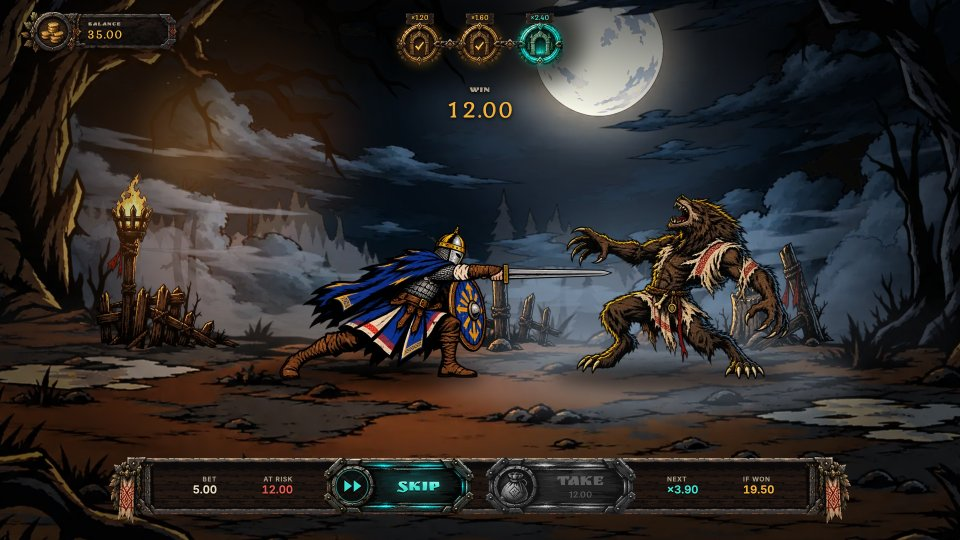
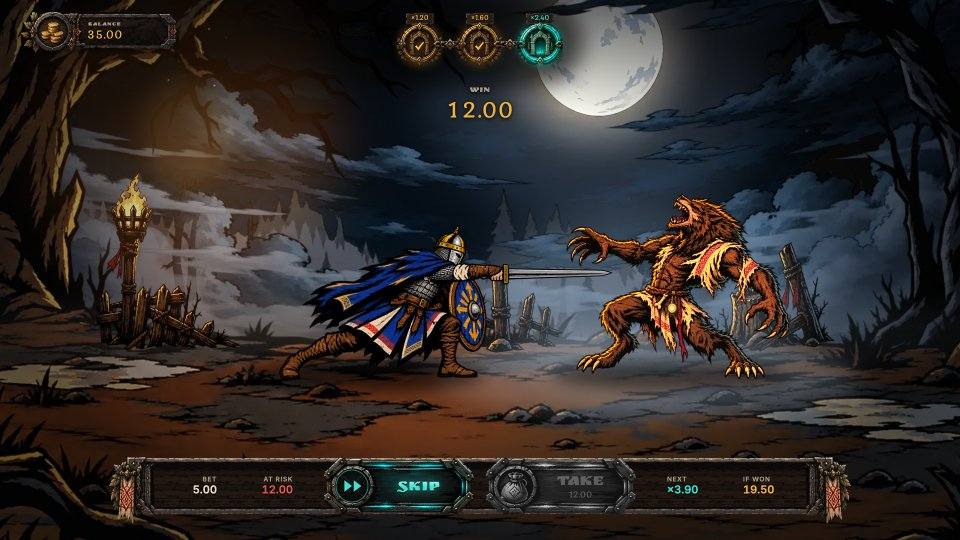
feat: light orb on enemies, flies to the win amount on victory
FX/Light orb from Figma 11.11 sits on every enemy pose; after a win over
a vovkulak or the boss it flies to the result banner and fades into it.
Open questions from the 11.11 sync logged.

diff --git a/docs/qa/report.html b/docs/qa/report.html
@@ -12,11 +12,11 @@
   tr.ok td:first-child { color: #3fe0d0; } tr.bad td:first-child { color: #f05a5a; font-weight: bold; }
 </style></head><body>
 <h1>Casino Game · visual QA</h1>
-<p>Generated 2026-11-11T17:16:24.788Z by <code>prototype/scripts/visual-qa.mjs</code> · app at 1920×1080 (shown at 960×540) · Figma file LXMHPQWUYxLjZiYVTfbx5X.
+<p>Generated 2026-11-11T17:26:30.599Z by <code>prototype/scripts/visual-qa.mjs</code> · app at 1920×1080 (shown at 960×540) · Figma file LXMHPQWUYxLjZiYVTfbx5X.
 Animated frames (attacks, boss entrance) will differ slightly: judge layout, UI and numbers. Character art comes from Lottie, so poses differ from the static Figma frames.</p>
 <h2>Money and runtime checks: 76/76 passed</h2>
 <table><tr class="ok"><td>PASS</td><td>Debug panel: effective RTP for all 7 gates (g1 = 78.0 %)</td><td>g1 78.0% g2 67.6% g3 65.9% g4 69.6% g5 78.9% g6 86.7% g7 93.1%</td></tr><tr class="ok"><td>PASS</td><td>L0: AT RISK (dock) = WIN (counter)</td><td>0.00 vs 0.00</td></tr><tr class="ok"><td>PASS</td><td>L0: AT RISK = game value</td><td>0.00 vs 0</td></tr><tr class="ok"><td>PASS</td><td>L0: TAKE disabled before the first win</td><td></td></tr><tr class="ok"><td>PASS</td><td>L0: FIGHT shows AT RISK</td><td>risk 0.00</td></tr><tr class="ok"><td>PASS</td><td>L0: AT RISK has 2 decimals</td><td>0.00</td></tr><tr class="ok"><td>PASS</td><td>L0: IF WON has 2 decimals</td><td>6.00</td></tr><tr class="ok"><td>PASS</td><td>L0: WIN has 2 decimals</td><td>0.00</td></tr><tr class="ok"><td>PASS</td><td>Balance after PLAY = start − bet</td><td>35.00</td></tr><tr class="ok"><td>PASS</td><td>L1: AT RISK (dock) = WIN (counter)</td><td>6.00 vs 6.00</td></tr><tr class="ok"><td>PASS</td><td>L1: AT RISK = game value</td><td>6.00 vs 6</td></tr><tr class="ok"><td>PASS</td><td>L1: TAKE amount = AT RISK</td><td>6.00 vs 6.00</td></tr><tr class="ok"><td>PASS</td><td>L1: FIGHT shows AT RISK</td><td>risk 6.00</td></tr><tr class="ok"><td>PASS</td><td>L1: AT RISK has 2 decimals</td><td>6.00</td></tr><tr class="ok"><td>PASS</td><td>L1: IF WON has 2 decimals</td><td>8.00</td></tr><tr class="ok"><td>PASS</td><td>L1: WIN has 2 decimals</td><td>6.00</td></tr><tr class="ok"><td>PASS</td><td>L1: path shows only the reached gate</td><td>1</td></tr><tr class="ok"><td>PASS</td><td>L1: plate is text only (no plate art)</td><td>×1.60</td></tr><tr class="ok"><td>PASS</td><td>L1: plate over the vovkulak at 1193,360 (Figma 756:6778)</td><td>1193,360</td></tr><tr class="ok"><td>PASS</td><td>L2: AT RISK (dock) = WIN (counter)</td><td>8.00 vs 8.00</td></tr><tr class="ok"><td>PASS</td><td>L2: AT RISK = game value</td><td>8.00 vs 8</td></tr><tr class="ok"><td>PASS</td><td>L2: TAKE amount = AT RISK</td><td>8.00 vs 8.00</td></tr><tr class="ok"><td>PASS</td><td>L2: FIGHT shows AT RISK</td><td>risk 8.00</td></tr><tr class="ok"><td>PASS</td><td>L2: AT RISK has 2 decimals</td><td>8.00</td></tr><tr class="ok"><td>PASS</td><td>L2: IF WON has 2 decimals</td><td>12.00</td></tr><tr class="ok"><td>PASS</td><td>L2: WIN has 2 decimals</td><td>8.00</td></tr><tr class="ok"><td>PASS</td><td>L3: AT RISK (dock) = WIN (counter)</td><td>12.00 vs 12.00</td></tr><tr class="ok"><td>PASS</td><td>L3: AT RISK = game value</td><td>12.00 vs 12</td></tr><tr class="ok"><td>PASS</td><td>L3: TAKE amount = AT RISK</td><td>12.00 vs 12.00</td></tr><tr class="ok"><td>PASS</td><td>L3: FIGHT shows AT RISK</td><td>risk 12.00</td></tr><tr class="ok"><td>PASS</td><td>L3: AT RISK has 2 decimals</td><td>12.00</td></tr><tr class="ok"><td>PASS</td><td>L3: IF WON has 2 decimals</td><td>19.50</td></tr><tr class="ok"><td>PASS</td><td>L3: WIN has 2 decimals</td><td>12.00</td></tr><tr class="ok"><td>PASS</td><td>L4: AT RISK (dock) = WIN (counter)</td><td>19.50 vs 19.50</td></tr><tr class="ok"><td>PASS</td><td>L4: AT RISK = game value</td><td>19.50 vs 19.5</td></tr><tr class="ok"><td>PASS</td><td>L4: TAKE amount = AT RISK</td><td>19.50 vs 19.50</td></tr><tr class="ok"><td>PASS</td><td>L4: FIGHT shows AT RISK</td><td>risk 19.50</td></tr><tr class="ok"><td>PASS</td><td>L4: AT RISK has 2 decimals</td><td>19.50</td></tr><tr class="ok"><td>PASS</td><td>L4: IF WON has 2 decimals</td><td>34.00</td></tr><tr class="ok"><td>PASS</td><td>L4: WIN has 2 decimals</td><td>19.50</td></tr><tr class="ok"><td>PASS</td><td>L5: AT RISK (dock) = WIN (counter)</td><td>34.00 vs 34.00</td></tr><tr class="ok"><td>PASS</td><td>L5: AT RISK = game value</td><td>34.00 vs 34</td></tr><tr class="ok"><td>PASS</td><td>L5: TAKE amount = AT RISK</td><td>34.00 vs 34.00</td></tr><tr class="ok"><td>PASS</td><td>L5: FIGHT shows AT RISK</td><td>risk 34.00</td></tr><tr class="ok"><td>PASS</td><td>L5: AT RISK has 2 decimals</td><td>34.00</td></tr><tr class="ok"><td>PASS</td><td>L5: IF WON has 2 decimals</td><td>57.50</td></tr><tr class="ok"><td>PASS</td><td>L5: WIN has 2 decimals</td><td>34.00</td></tr><tr class="ok"><td>PASS</td><td>L5: gate 6 enemy is the vovkulak boss, not final</td><td>vovkulakBoss final=false</td></tr><tr class="ok"><td>PASS</td><td>L5: dock still reads IF WON on gate 6</td><td>IF WON</td></tr><tr class="ok"><td>PASS</td><td>L5: plate over the boss at 1201,327 (Figma 756:6539)</td><td>1201,327</td></tr><tr class="ok"><td>PASS</td><td>Gate 6 boss intro banner: BOSS BATTLE · ×11.50, no MAX WIN</td><td>BOSS BATTLE·×11.50</td></tr><tr class="ok"><td>PASS</td><td>Gate 6: FIGHT uses Highlight (boss)</td><td></td></tr><tr class="ok"><td>PASS</td><td>Fight (win): 2–3 exchanges, final blow by the hero</td><td>2 exchanges, winner hero</td></tr><tr class="ok"><td>PASS</td><td>Fight (win): no sprite jumps — every move slides (≥150 ms), shadows on y750 ±4</td><td>5 moves, 0 jumps, y off 0.0 px</td></tr><tr class="ok"><td>PASS</td><td>Fight (lose): 2–3 exchanges, final blow by the enemy</td><td>2 exchanges, winner enemy</td></tr><tr class="ok"><td>PASS</td><td>Fight (lose): no sprite jumps — every move slides (≥150 ms), shadows on y750 ±4</td><td>5 moves, 0 jumps, y off 0.0 px</td></tr><tr class="ok"><td>PASS</td><td>Baba Yaga: cage light is on and follows her (same x as the enemy)</td><td>{"has":true,"follows":true,"src":"/fx/cage-core.svg"}</td></tr><tr class="ok"><td>PASS</td><td>DEFEAT by Baba Yaga: knight caged at home, she wins on her step 1180</td><td>{"hero":"caged","enemyX":"1180","red":true,"redSrc":"/fx/red-light-supporting.svg","cage":"/fx/cage-core.svg"}</td></tr><tr class="ok"><td>PASS</td><td>DEFEAT by Baba Yaga: gold cage light is the focus, red light only supports (847:6304)</td><td>{"hero":"caged","enemyX":"1180","red":true,"redSrc":"/fx/red-light-supporting.svg","cage":"/fx/cage-core.svg"}</td></tr><tr class="ok"><td>PASS</td><td>Victory banner = AT RISK growth (19.50 − 12.00)</td><td>+7.50</td></tr><tr class="ok"><td>PASS</td><td>Defeat popup = −bet</td><td></td></tr><tr class="ok"><td>PASS</td><td>Defeat: balance = before − bet</td><td>35.00</td></tr><tr class="ok"><td>PASS</td><td>Cashed out popup = TAKE amount = AT RISK</td><td>+12.00 / 12.00 / 12.00</td></tr><tr class="ok"><td>PASS</td><td>Cashed out: balance = before − bet + payout</td><td>47.00</td></tr><tr class="ok"><td>PASS</td><td>Baba Yaga intro banner shows FINAL BATTLE and the final multiplier</td><td>FINAL BATTLE·MAX WIN×19.00</td></tr><tr class="ok"><td>PASS</td><td>Baba Yaga: dock label reads IF WON (Figma 843:6410)</td><td>IF WON</td></tr><tr class="ok"><td>PASS</td><td>Baba Yaga: FIGHT reads risk = AT RISK</td><td>risk 57.50</td></tr><tr class="ok"><td>PASS</td><td>Baba Yaga: FIGHT uses Highlight</td><td></td></tr><tr class="ok"><td>PASS</td><td>Baba Yaga: plate shows only the final multiplier</td><td>×19.00</td></tr><tr class="ok"><td>PASS</td><td>Baba Yaga: plate over her head at 1247,276 (Figma 843:6410)</td><td>1247,276</td></tr><tr class="ok"><td>PASS</td><td>Baba Yaga: gate 7 enemy is final</td><td>babaYaga final=true</td></tr><tr class="ok"><td>PASS</td><td>MAX WIN popup = IF WON before the boss fight</td><td>+95.00 vs 95.00</td></tr><tr class="ok"><td>PASS</td><td>MAX WIN: balance unchanged until the popup shows</td><td>35</td></tr><tr class="ok"><td>PASS</td><td>MAX WIN: balance = before − bet + payout</td><td>130.00</td></tr><tr class="ok"><td>PASS</td><td>Lottie clip mount during a round (JS) < 100 ms each (roadmap long-task target)</td><td>no Lottie mounted during the round (characters are sprites)</td></tr><tr class="ok"><td>PASS</td><td>No page errors or console errors</td><td></td></tr></table>
-<p><code>info</code> Headless (software GL) long tasks during the perf round: 2, max 217 ms. Not a gate; see checklist for real-GPU numbers.</p>
+<p><code>info</code> Headless (software GL) long tasks during the perf round: 1, max 85 ms. Not a gate; see checklist for real-GPU numbers.</p>
 
     <section>
       <h2>SETUP (lobby) <code>885:10856</code></h2>

diff --git a/prototype/src/scene/Character.jsx b/prototype/src/scene/Character.jsx
@@ -47,6 +47,7 @@ export default function Character({ set, pose, x, move, flash, enter = false, qa
 
   const current = SPRITES[`${set}.${pose}`]
   const down = pose === 'dead'
+  const orb = FX.lightOrb.poses[set]?.[pose]
 
   return (
     <div
@@ -99,6 +100,18 @@ export default function Character({ set, pose, x, move, flash, enter = false, qa
             </div>
           )
         })}
+        {/* FX/Light orb 947:6377: the light amulet each enemy wears, on its pose anchor. */}
+        {orb && (
+          <img
+            src={FX.lightOrb.src}
+            alt=""
+            aria-hidden
+            data-qa="light-orb"
+            className="absolute block max-w-none"
+            style={{ left: orb[0] - FX.lightOrb.w / 2, top: SHADOW_Y + orb[1] - FX.lightOrb.h / 2, width: FX.lightOrb.w, height: FX.lightOrb.h }}
+            draggable={false}
+          />
+        )}
       </div>
     </div>
   )
@@ -179,5 +192,34 @@ export function DefeatRedLight({ x, set }) {
       style={{ left: x + red.x, top: SHADOW_Y + red.y, width: red.w, height: red.h, animation: 'fade-in 300ms ease-out both' }}
       draggable={false}
     />
+  )
+}
+
+// Victory over a vovkulak or the boss: the beaten enemy's light orb leaves its body
+// and flies to the win amount in the result banner (x960, y219), then fades into it.
+// The two axes ease differently, so the path curves; two faint copies trail it.
+export const ORB_TARGET = { x: 960, y: 219 }
+
+export function LightOrbFlight({ set, x }) {
+  const start = FX.lightOrb.poses[set]?.hit
+  if (!start) return null
+  const from = { x: x + start[0], y: SHADOW_Y + start[1] }
+  const style = { '--dx': `${ORB_TARGET.x - from.x}px`, '--dy': `${ORB_TARGET.y - from.y}px` }
+  return (
+    <div className="pointer-events-none absolute" style={{ left: from.x, top: from.y }} data-qa="light-orb-flight" aria-hidden>
+      {[0, 1, 2].map((i) => (
+        <div key={i} className="orb-fly-x absolute" style={{ ...style, animationDelay: `${200 + i * 45}ms` }}>
+          <div className="orb-fly-y" style={{ ...style, animationDelay: `${200 + i * 45}ms`, opacity: i ? 0.45 / i : 1 }}>
+            <img
+              src={FX.lightOrb.src}
+              alt=""
+              className="absolute block max-w-none"
+              style={{ left: -FX.lightOrb.w / 2, top: -FX.lightOrb.h / 2, width: FX.lightOrb.w, height: FX.lightOrb.h }}
+              draggable={false}
+            />
+          </div>
+        </div>
+      ))}
+    </div>
   )
 }

diff --git a/prototype/src/scene/Scene.jsx b/prototype/src/scene/Scene.jsx
@@ -1,6 +1,6 @@
 import { useEffect, useState } from 'react'
 import { STATES } from '../game/machine.js'
-import Character, { CageLightRelease, CharacterLight, DefeatRedLight, spriteUrls } from './Character.jsx'
+import Character, { CageLightRelease, CharacterLight, DefeatRedLight, LightOrbFlight, spriteUrls } from './Character.jsx'
 import ClipSlot from './ClipSlot.jsx'
 import { BOSS_PRELOAD_GATES, BOSS_SHAKE, CLIP_BATCHES, FIRST_BOSS_GATE } from './director.js'
 import Environment, { envImageUrls, HeroLight } from './Environment.jsx'
@@ -124,6 +124,9 @@ export default function Scene({ scene, state }) {
           {...frame.enemy}
           flash={frame.flash.enemy}
         />
+      )}
+      {state.phase === STATES.WIN_BANNER && frame.enemy && (
+        <LightOrbFlight key={`orb-${state.passed}`} set={scene.set} x={frame.enemy.x} />
       )}
       <ClipSlot cue={scene.fx ?? null} />
     </div>

diff --git a/prototype/src/styles/components.css b/prototype/src/styles/components.css
@@ -677,6 +677,43 @@
   animation: fade-in 300ms ease-out both;
 }
 
+/* Light orb flight (Character.jsx, LightOrbFlight): 700 ms to the win amount. */
+.orb-fly-x {
+  animation: orb-fly-x 700ms ease-in-out both;
+}
+.orb-fly-y {
+  animation: orb-fly-y 700ms cubic-bezier(0.35, 0, 0.2, 1) both;
+}
+@keyframes orb-fly-x {
+  from {
+    translate: 0 0;
+  }
+  to {
+    translate: var(--dx) 0;
+  }
+}
+@keyframes orb-fly-y {
+  0% {
+    translate: 0 0;
+    scale: 1;
+    opacity: 1;
+  }
+  80% {
+    opacity: 1;
+  }
+  100% {
+    translate: 0 var(--dy);
+    scale: 0.5;
+    opacity: 0;
+  }
+}
+@media (prefers-reduced-motion: reduce) {
+  .orb-fly-x,
+  .orb-fly-y {
+    display: none;
+  }
+}
+
 /* MAX WIN over Baba Yaga: the light leaves the cage (Character.jsx, CageLightRelease). */
 .cage-light--released {
   animation: cage-light-out 1200ms ease-out 300ms both;

diff --git a/docs/open-questions.md b/docs/open-questions.md
@@ -23,3 +23,13 @@
 - [ ] Baba Yaga entrance: she slides in from the right with her Idle pose (as briefed, "walk-in uses Idle"), plus the boss landing dust and shake. Should she fly in on the mortar instead (splash art), or no landing shake for her? — *to confirm with Roman*
 - [ ] Lobby 885:10856 has no balance and no Rules/Menu buttons. The prototype follows the frame, so the player does not see the balance while choosing a bet. Keep it? — *to confirm with Roman*
 - [ ] Lobby facts (RTP 96.00%, BET range, MAX MULTIPLIER): the frame shows them in brackets as placeholders and BET up to 10.00, config has max bet 20. — *to confirm with Artem*
+
+### From the 11.11 sync (don't decide here)
+- [ ] CHANCE 65 % in the lobby dock: the chance of one fight or of the whole round? The label may change once Artem sends the math. The prototype shows the per-fight win chance from `config.js`. — *to confirm with Artem*
+- [ ] Light orb on Baba Yaga: Figma 11.11 places `FX/Light orb` on her Idle, Hit, Attack and Victory poses, but the brief says "Baba Yaga has no orb: her light is the cage". The prototype follows Figma. Keep it or remove it? Figma's entrance frame 843:6370 also has a 64 px orb inside the cage. — *to confirm with Roman*
+- [ ] Yaga entrance: walks in from the right (now) or flies in by mortar. — *to confirm with Roman*
+- [ ] How the next enemy appears after a win (now: slides in from the right). — *to confirm with Roman*
+- [ ] TAKE outcome scene (idea, not briefed): the knight returns and the village lights up in proportion to the gates passed. — *Roman*
+- [ ] Ash animation for the caged knight: still darken + fade. — *Roman will brief*
+- [ ] Sound: postponed to the very end (client, 09.11). None added.
+- [ ] Counter/Win size: the 11.11 Yaga frames draw WIN smaller than the prototype's Number XL. Not in the brief, left as is. — *to confirm with Roman*

diff --git a/docs/decisions.md b/docs/decisions.md
@@ -145,3 +145,4 @@ Log every assumption, trade-off and client answer here. Newest at the bottom.
 | 2026-11-11 | Dock/Main (941:6656) replaces the Dock/Decision states: shell Top=Plain, Inter for functional text with tabular figures, Ruslan Display only on CTA labels, variants lobby / waiting / fight and result (waiting with both CTAs disabled; Defeat and MAX WIN read 0.00 / — / —). PLAY is 364 wide with no subtitle. Lobby dock at 186,896 as in 885:10856. Selected difficulty is gold for every level. | Figma 11.11. |
 | 2026-11-11 | Knight rim light removed from every pose (rim sprites, scene colours and tokens deleted). The earlier open bug "Victory has no rim light" no longer applies. | Figma 11.11: Roman deleted every `rim light (upper body)` layer. |
 | 2026-11-11 | Baba Yaga level per Figma 11.11: hut group 855,342, 273×369 on every Yaga frame (shadow and fog veil unchanged); the cage light is now the Figma layers with their blend modes and the stronger opacities (core 1.0, glow 0.8, light sparks 0.9, aura / light on Yaga / ground pool 0.3, light on ground 0.38) instead of a baked image, so it is gold in every frame; on her win it sits on the cage in her raised hand and the red light only supports it (halo 0.18, pool 0.20). | Figma is the reference. |
+| 2026-11-11 | FX/Light orb (947:6377) on enemies, per pose at the Figma positions (fx.json). On a win over a vovkulak or the boss it flies from the enemy to the win amount in the result banner in 700 ms (curved path, short trail) and fades into it. Figma also places the orb on Baba Yaga's poses, while the 11.11 brief says she has none: following Figma, logged in open-questions; her MAX WIN keeps the cage light release and the orb does not fly there. | Figma is the source of truth when the brief disagrees. |
